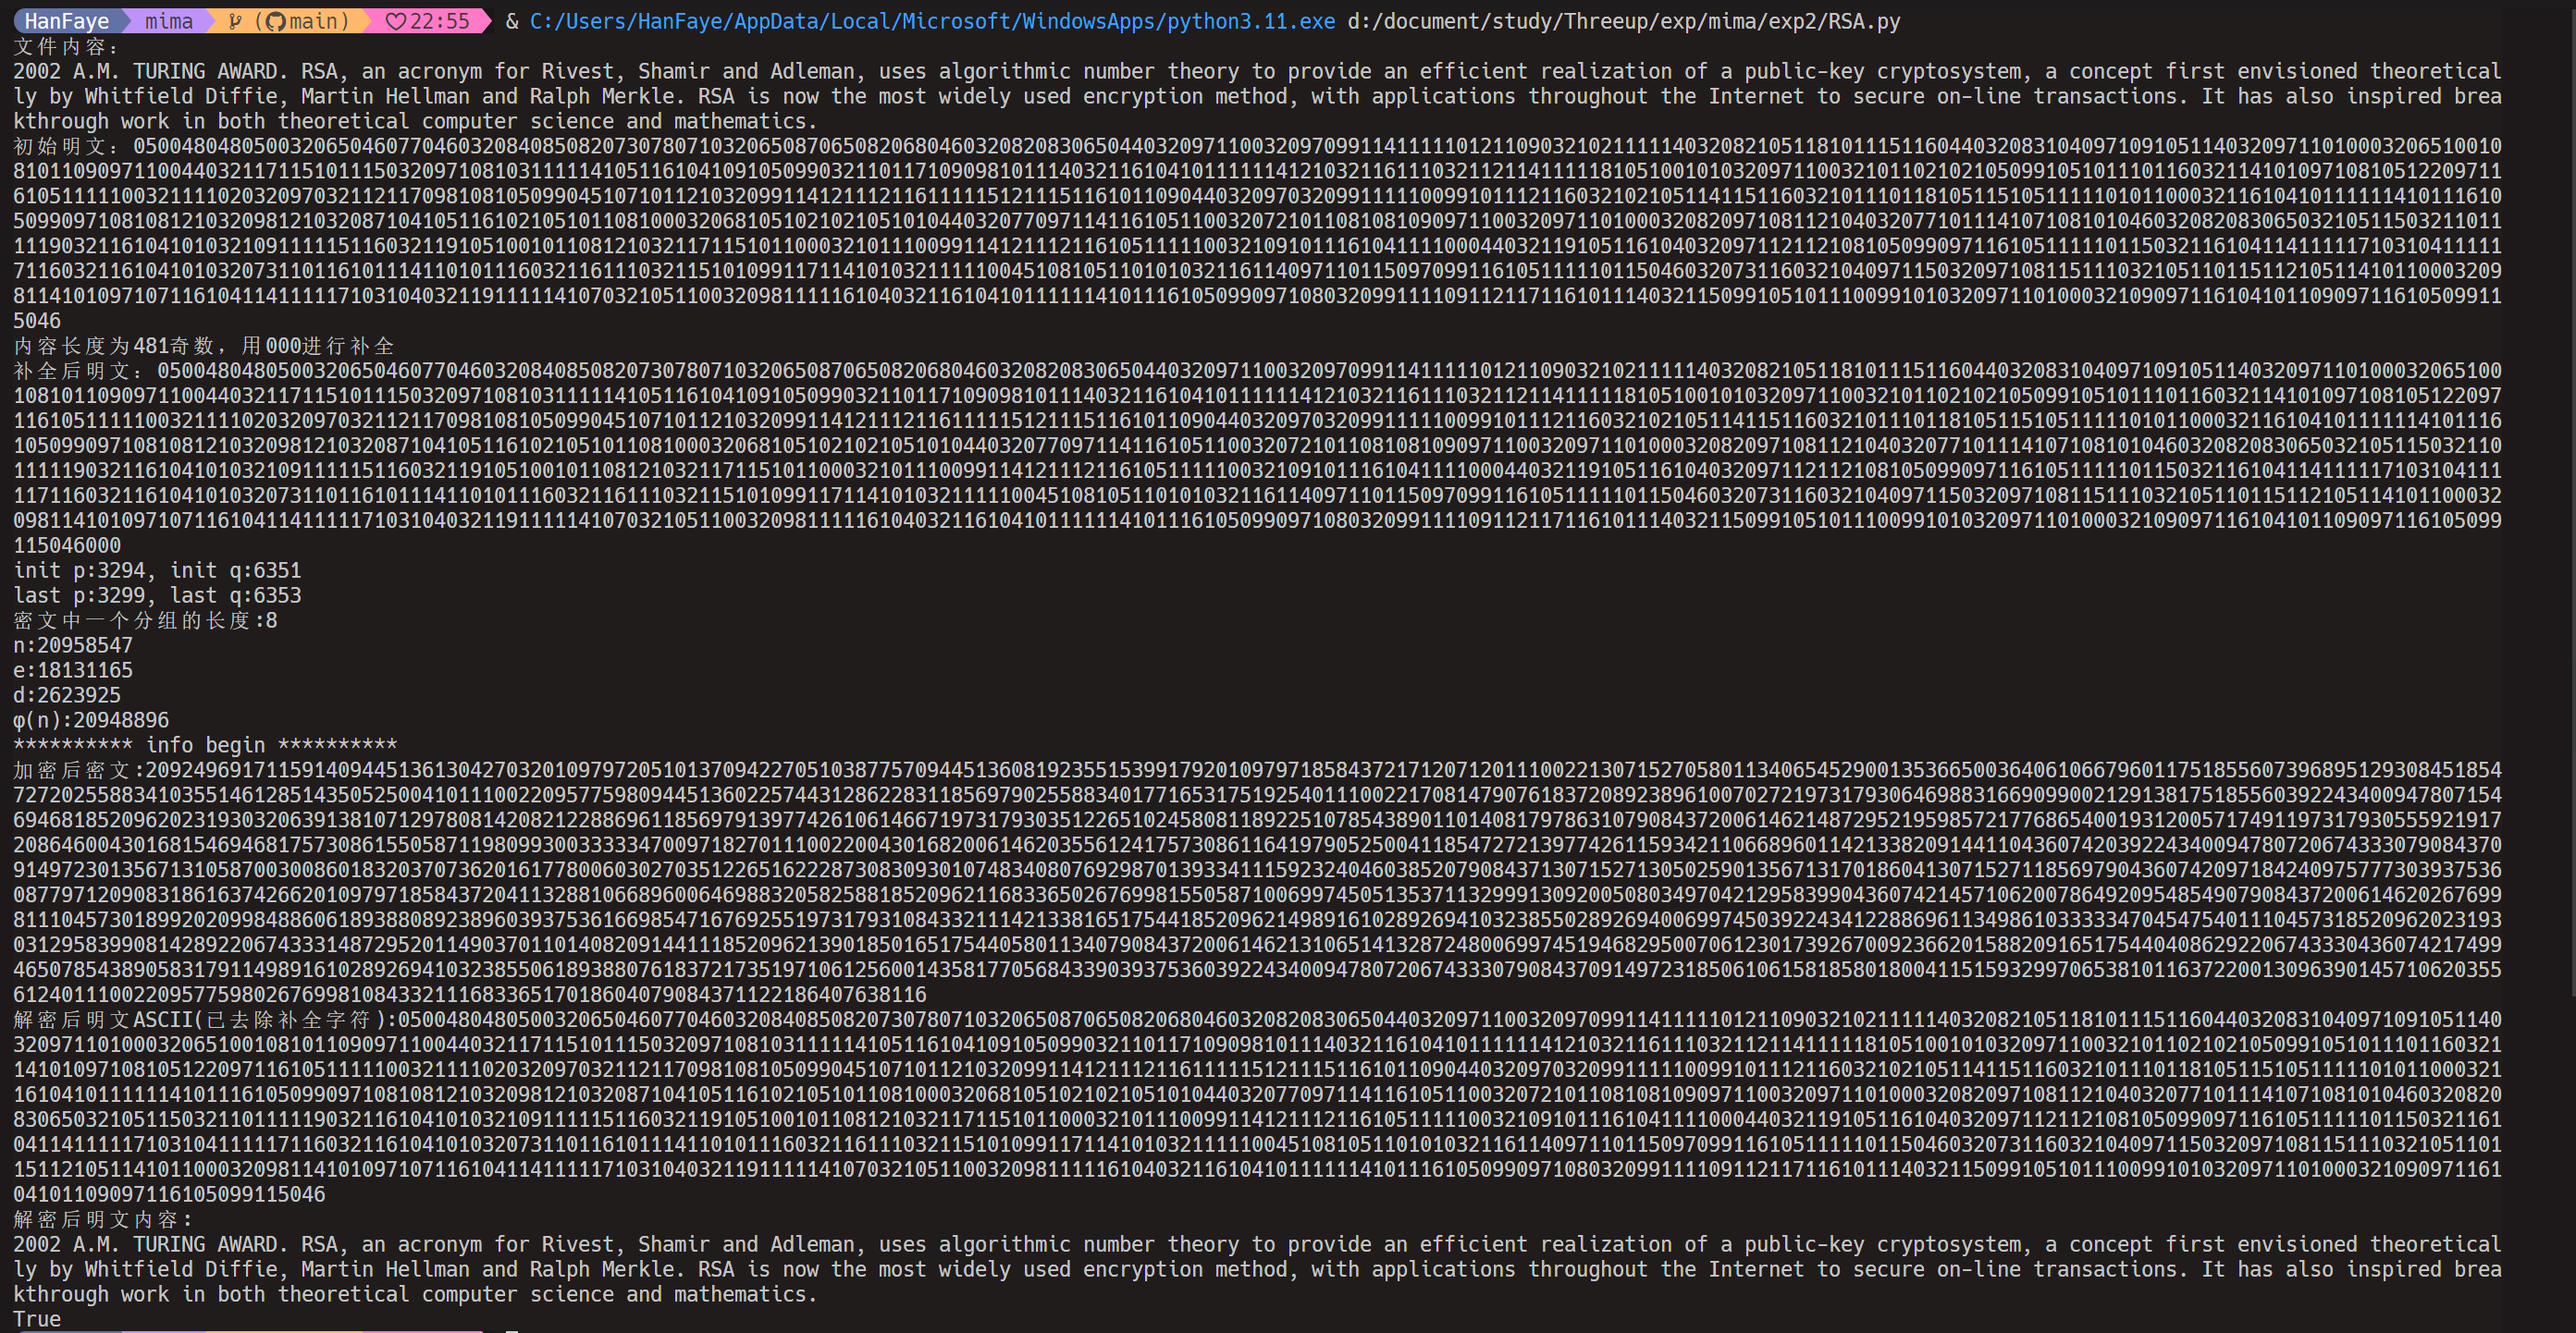
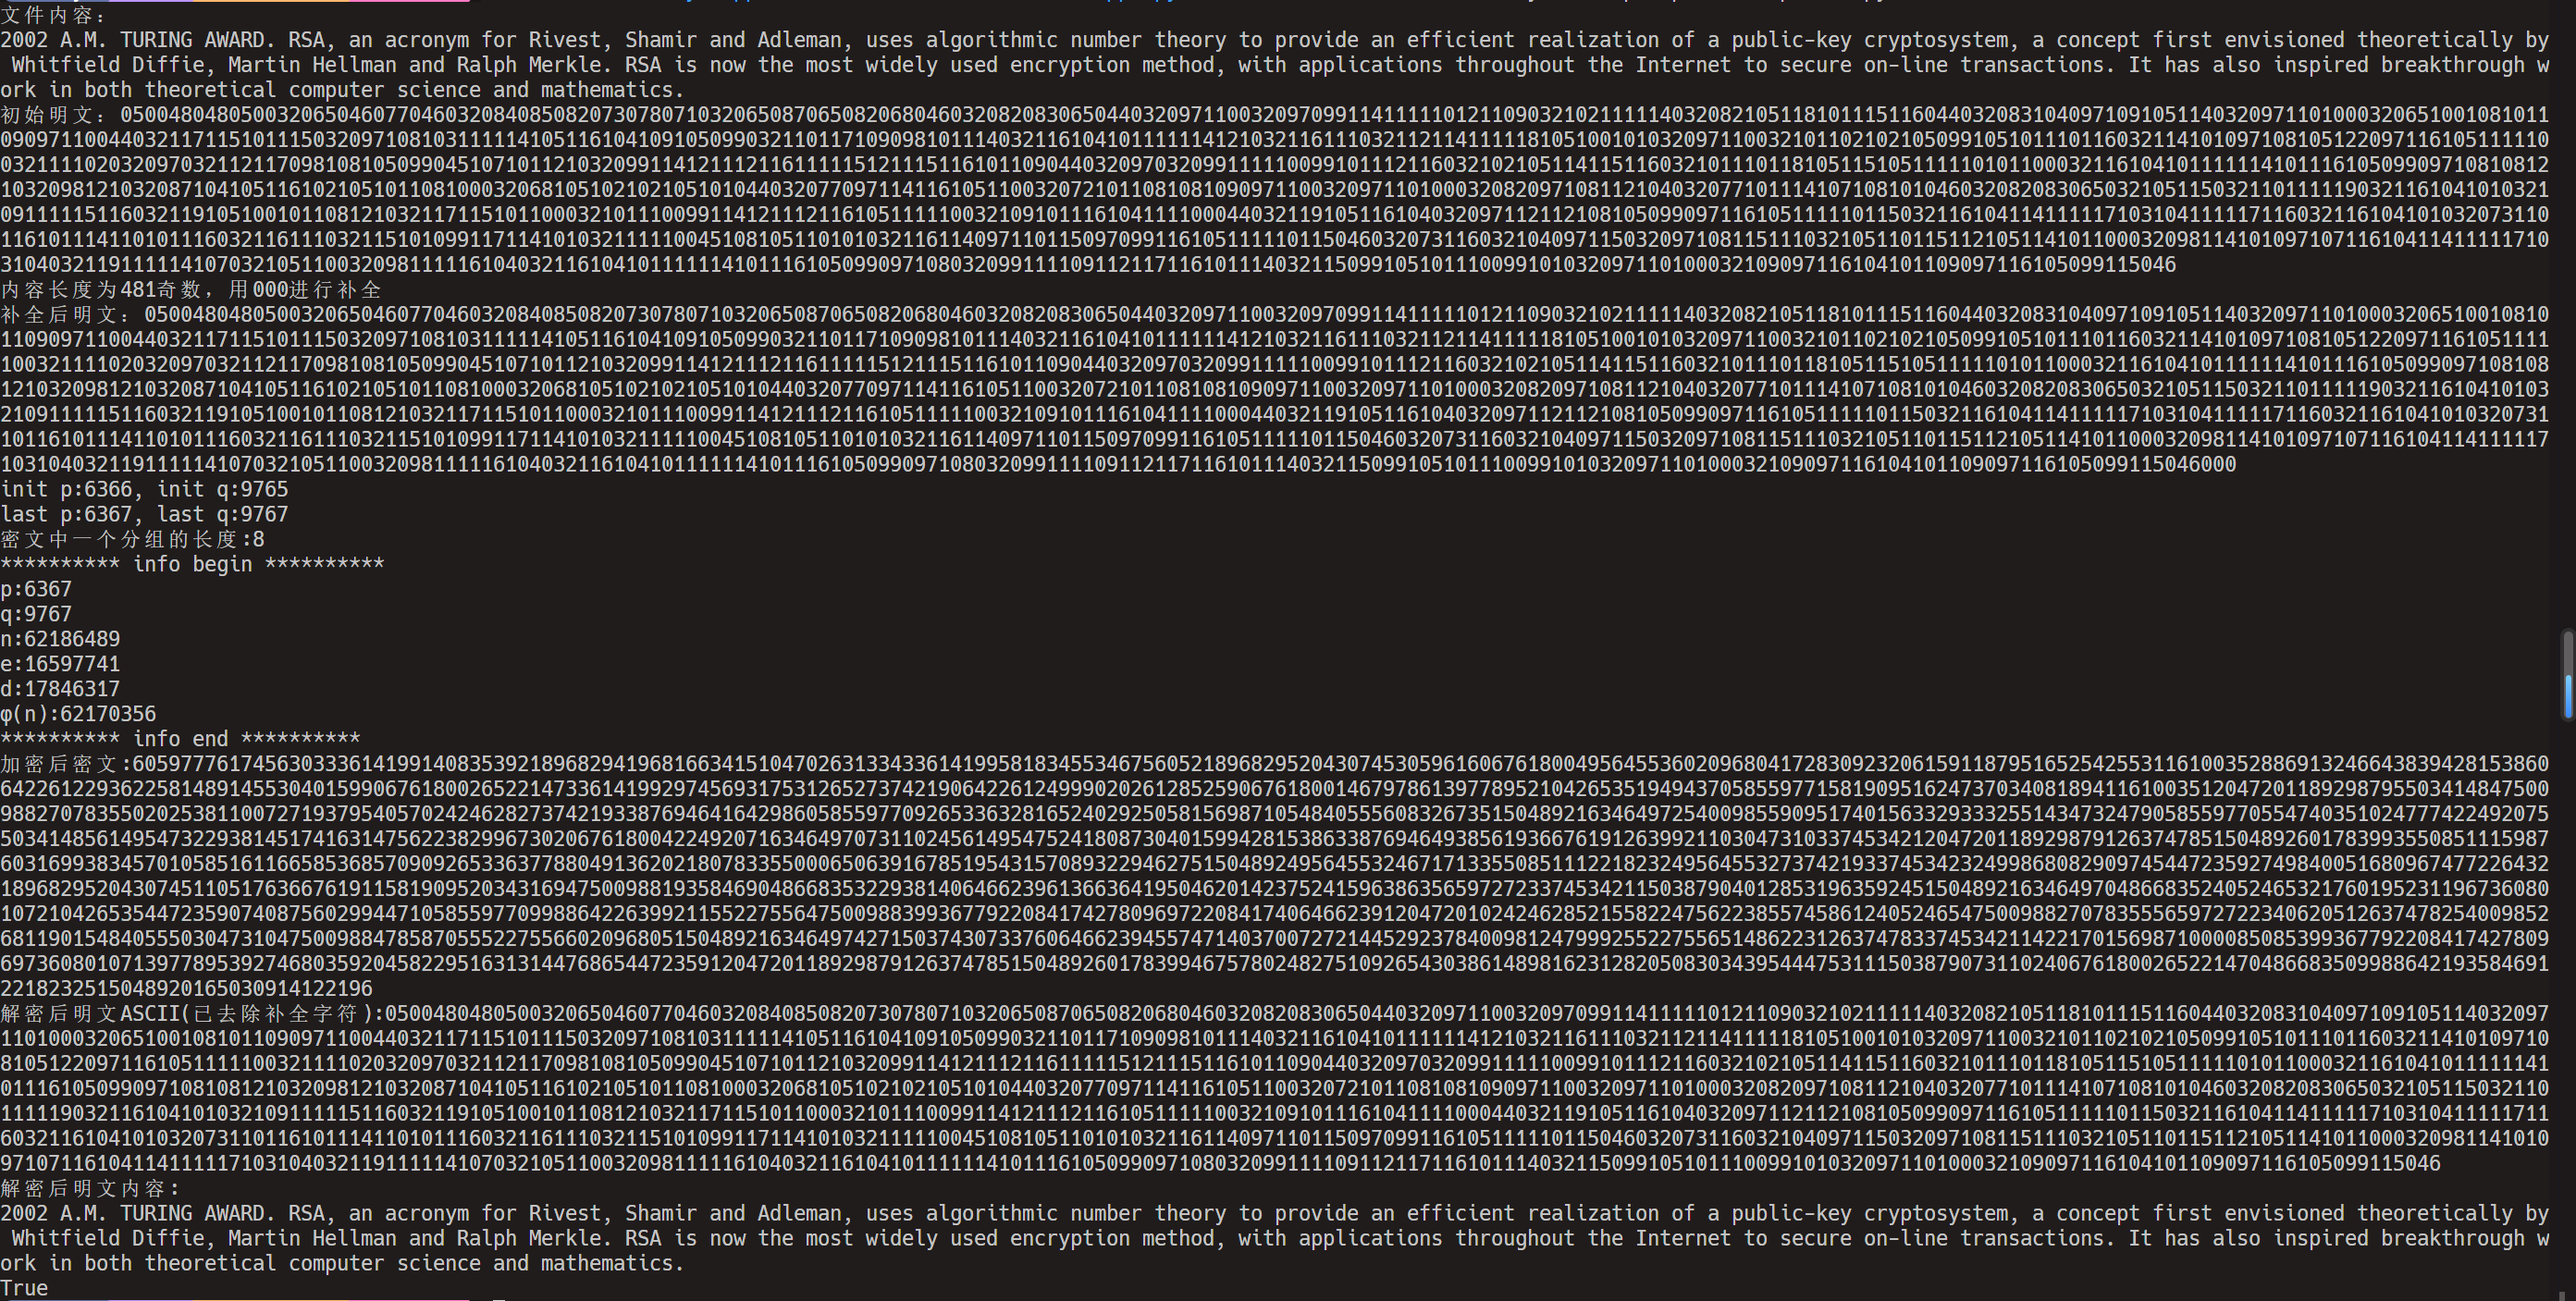
update README

diff --git a/exp2/RSA.py b/exp2/RSA.py
@@ -211,7 +211,7 @@ if __name__ == '__main__':
     d = get_d(e, (p-1)*(q-1))
     print('*'*10+' info begin '+'*'*10)
     print(f'p:{p}\nq:{q}\nn:{p*q}\ne:{e}\nd:{d}\nφ(n):{(p-1)*(q-1)}')
-    print('*'*10+' info begin '+'*'*10)
+    print('*'*10+' info end '+'*'*10)
 
     ##加密
     miwen = ''
